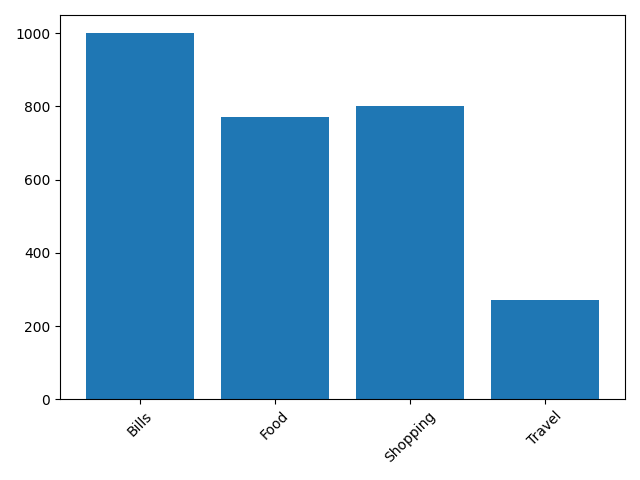
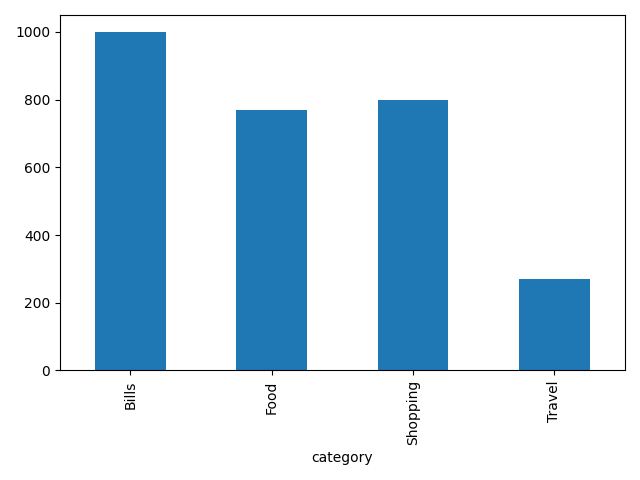
Added dynamic chart filtering

diff --git a/app.py b/app.py
@@ -1,6 +1,7 @@
 from flask import Flask, request
 import sqlite3
 import pandas as pd
+import matplotlib.pyplot as plt
 
 app = Flask(__name__)
 
@@ -11,17 +12,22 @@ def home():
     conn = sqlite3.connect("database/expenses.db")
 
     if category:
-        df = pd.read_sql(
-            "SELECT * FROM expenses WHERE category = ?",
-            conn,
-            params=(category,)
-        )
+        query = "SELECT * FROM expenses WHERE LOWER(category)=LOWER(?)"
+        df = pd.read_sql(query, conn, params=(category.strip(),))
     else:
         df = pd.read_sql("SELECT * FROM expenses", conn)
 
     conn.close()
 
-    total = df["amount"].sum()
+    if not df.empty:
+        summary = df.groupby("category")["amount"].sum()
+        plt.figure()
+        summary.plot(kind="bar")
+        plt.tight_layout()
+        plt.savefig("static/category_chart.png")
+        plt.close()
+
+    total = df["amount"].sum() if not df.empty else 0
 
     html = f"""
     <h1>Expense Analyzer Dashboard</h1>